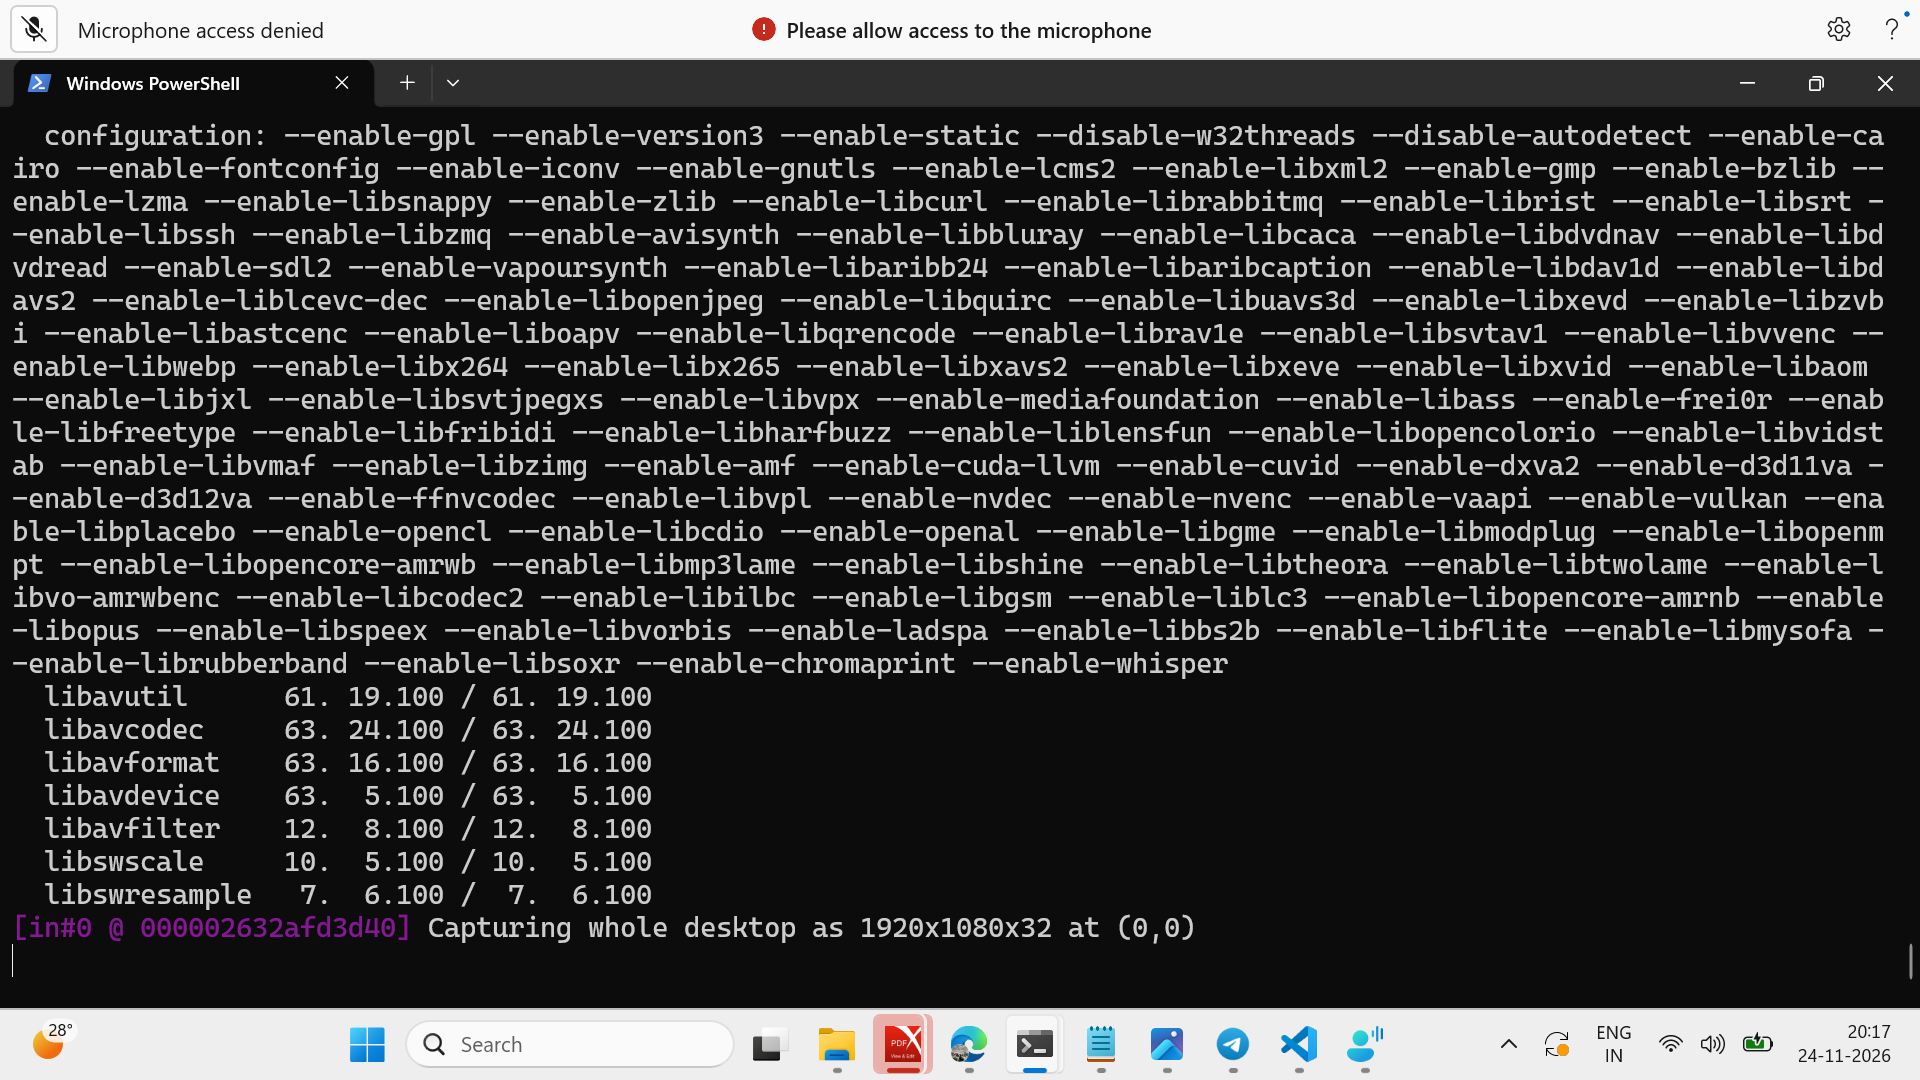
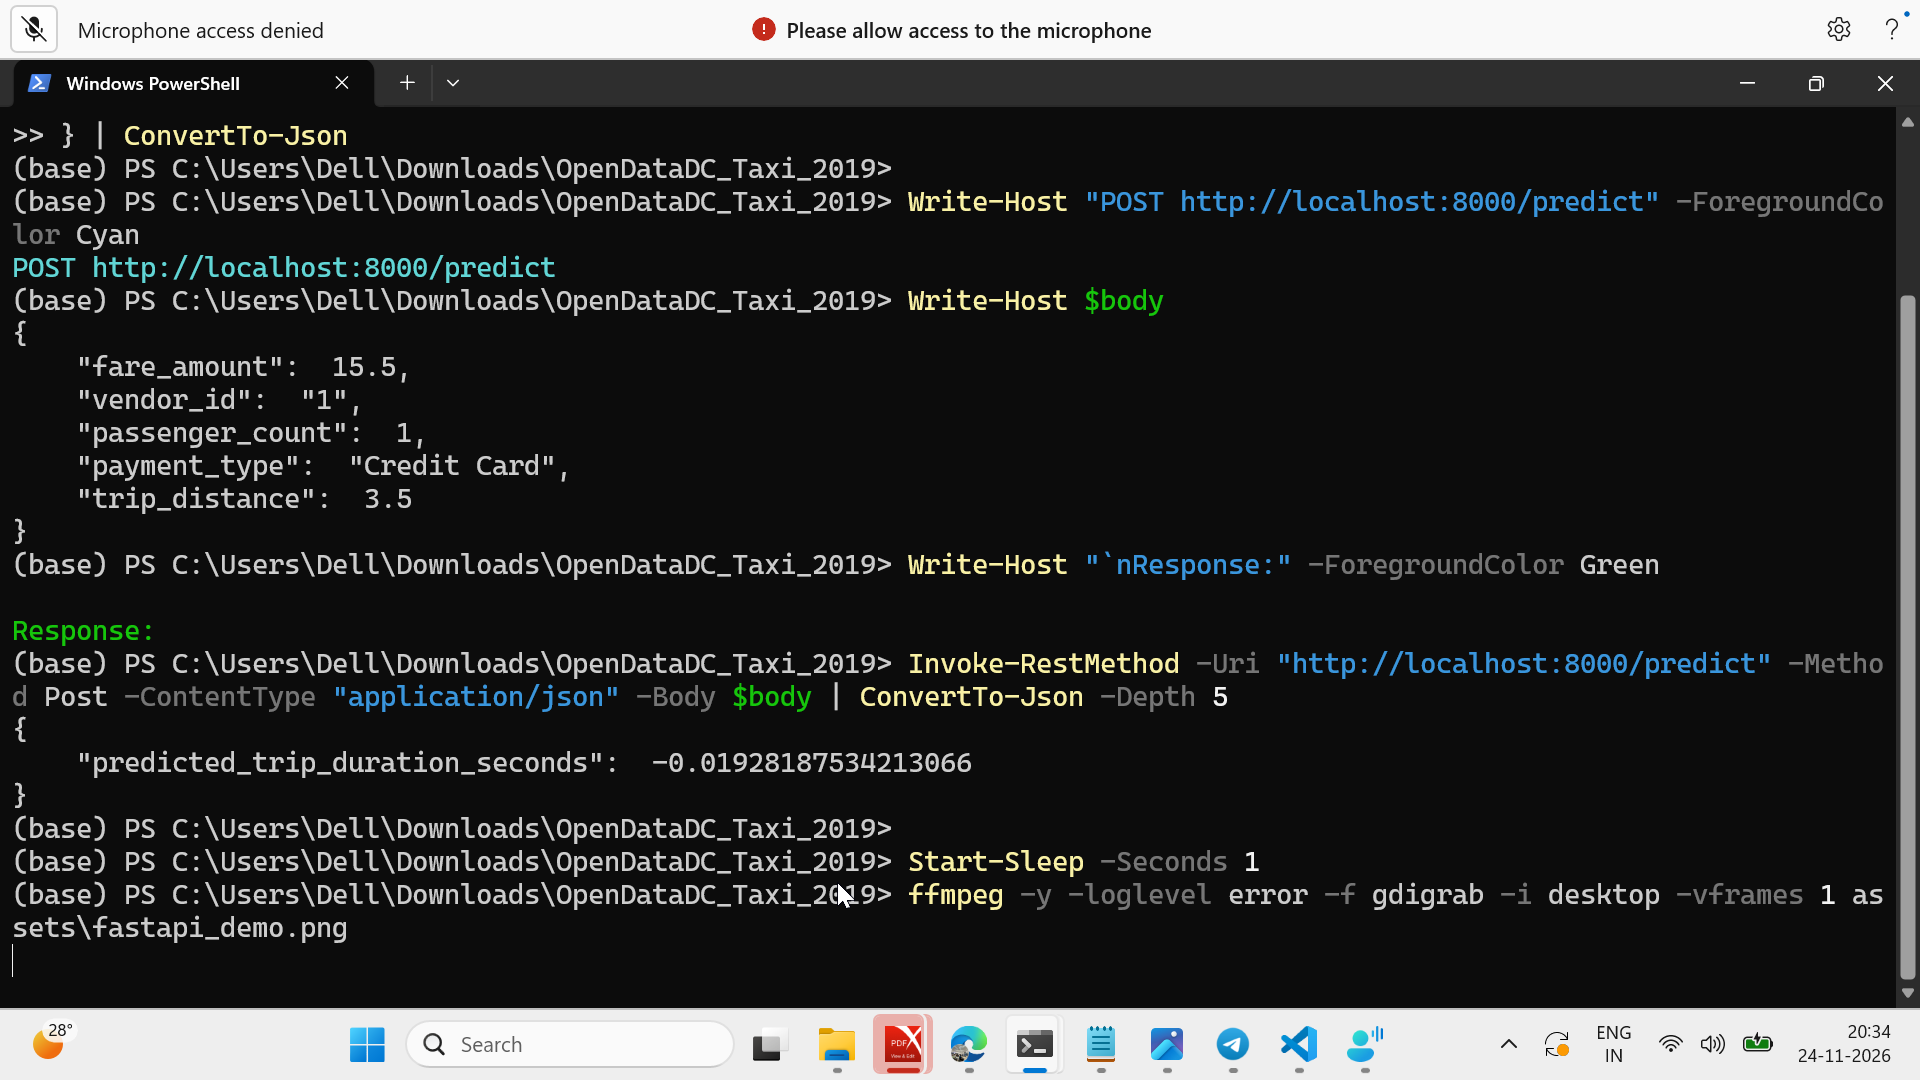
Add FastAPI live demo screenshot to README

Changed region(s): [[0.0, 0.0917, 1.0, 0.9472]]

diff --git a/README.md b/README.md
@@ -15,3 +15,6 @@ docker compose up --build
 
 ## FastAPI Live Demo
 ![FastAPI Live Demo](assets/fastapi_demo.gif)
+
+## FastAPI Live Demo
+![FastAPI Live Demo](assets/fastapi_demo.png)
